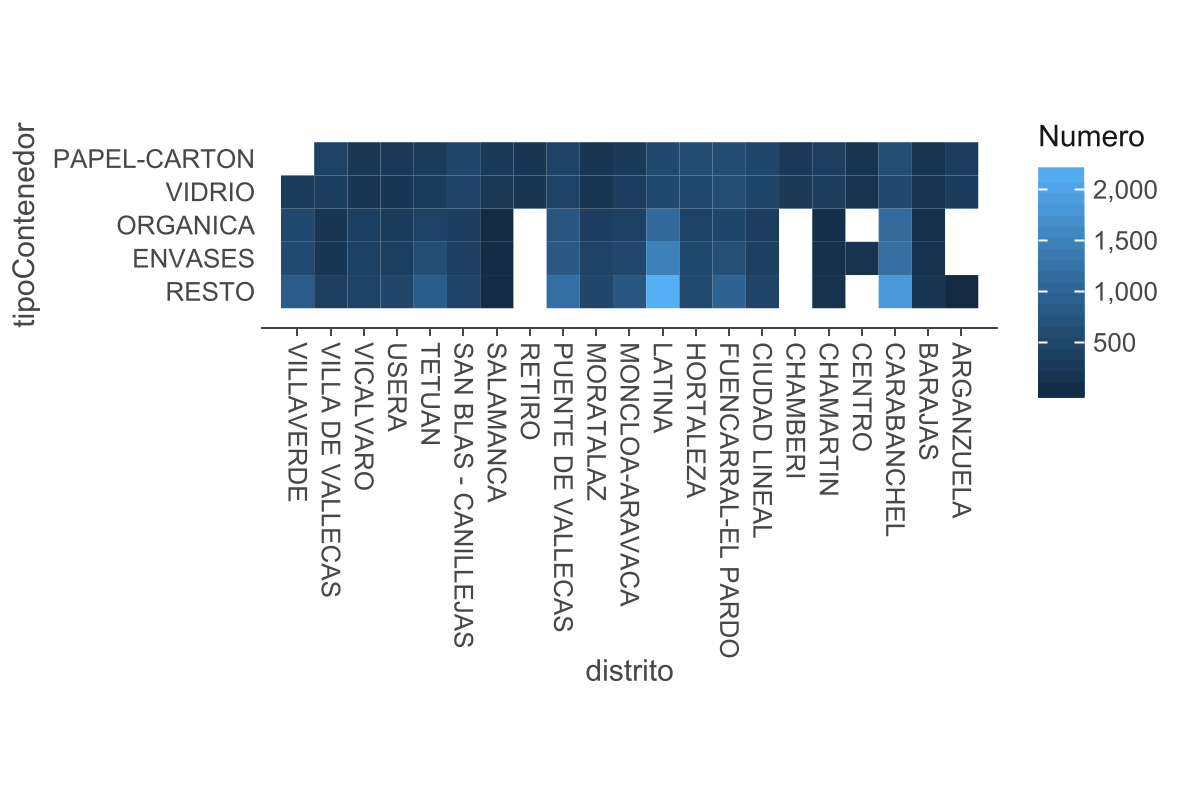
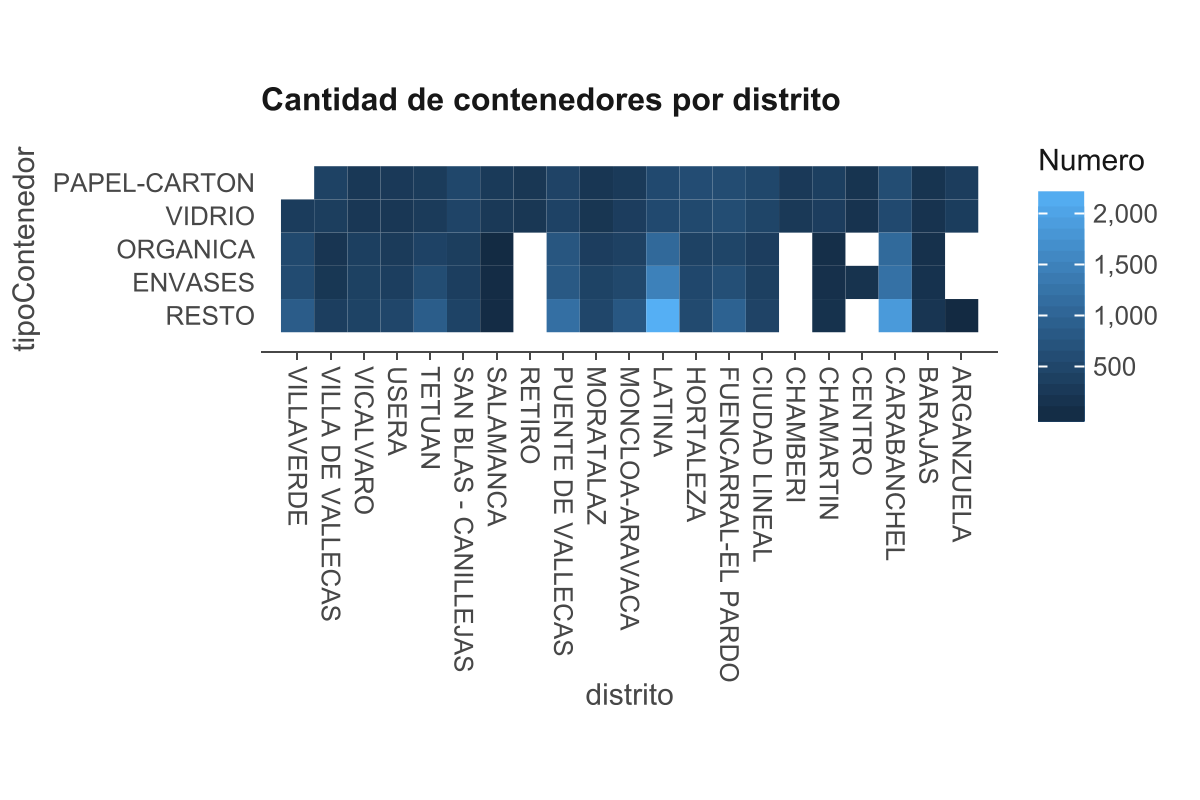
Commit_06_JR
Bitacora añadida

Changed region(s): [[0.0, 0.0938, 0.8325, 0.9062], [0.8633, 0.1562, 0.9867, 0.5312], [0.4008, 0.25, 0.4933, 0.3125]]

diff --git a/ProyectoAD-01-Residuos/src/main/resources/resumen.html b/ProyectoAD-01-Residuos/src/main/resources/resumen.html
@@ -12,7 +12,7 @@
              
              <h1 id ="titulo">Resumen de Recogidas y Reciclaje de contenendores en los distritos de Madrid</h1>
             
-             <h2 id="subtituloUno"> Generacion del html: 2022-10-11T23:18:14.265607700</h2>
+             <h2 id="subtituloUno"> Generacion del html: 2022-10-12T20:16:55.482346900</h2>
              <br>
              <h3 id="subtituloDos">Construido por: Daniel Carmona y Jeremy Ramos</h3>
              
@@ -177,7 +177,7 @@ table.dataframe tr:hover .formatted .structural, .null {
         </head>
         <body>
             
-<table class="dataframe" id="df_1207959552"></table>
+<table class="dataframe" id="df_838860800"></table>
 
 <p>... showing only top 20 of 94 rows</p><p>DataFrame [94 x 3]</p>
         </body>
@@ -460,10 +460,10 @@ table.dataframe tr:hover .formatted .structural, .null {
 call_DataFrame(function() { DataFrame.addTable({ cols: [{ name: "<span title=\"distrito: String\">distrito</span>", children: [], rightAlign: false, values: ["VILLAVERDE","VILLAVERDE","VILLAVERDE","VILLAVERDE","VILLA DE VALLECAS","VILLA DE VALLECAS","VILLA DE VALLECAS","VILLA DE VALLECAS","VILLA DE VALLECAS","VICALVARO","VICALVARO","VICALVARO","VICALVARO","VICALVARO","USERA","USERA","USERA","USERA","USERA","TETUAN"] }, 
 { name: "<span title=\"tipoContenedor: String\">tipoContenedor</span>", children: [], rightAlign: false, values: ["RESTO","ENVASES","ORGANICA","VIDRIO","RESTO","PAPEL-CARTON","ENVASES","VIDRIO","ORGANICA","ENVASES","ORGANICA","RESTO","PAPEL-CARTON","VIDRIO","PAPEL-CARTON","RESTO","ENVASES","VIDRIO","ORGANICA","VIDRIO"] }, 
 { name: "<span title=\"Numero: Int\">Numero</span>", children: [], rightAlign: true, values: ["<span class=\"formatted\" title=\"\"><span class=\"numbers\">867</span></span>","<span class=\"formatted\" title=\"\"><span class=\"numbers\">582</span></span>","<span class=\"formatted\" title=\"\"><span class=\"numbers\">545</span></span>","<span class=\"formatted\" title=\"\"><span class=\"numbers\">324</span></span>","<span class=\"formatted\" title=\"\"><span class=\"numbers\">356</span></span>","<span class=\"formatted\" title=\"\"><span class=\"numbers\">422</span></span>","<span class=\"formatted\" title=\"\"><span class=\"numbers\">221</span></span>","<span class=\"formatted\" title=\"\"><span class=\"numbers\">351</span></span>","<span class=\"formatted\" title=\"\"><span class=\"numbers\">200</span></span>","<span class=\"formatted\" title=\"\"><span class=\"numbers\">397</span></span>","<span class=\"formatted\" title=\"\"><span class=\"numbers\">368</span></span>","<span class=\"formatted\" title=\"\"><span class=\"numbers\">431</span></span>","<span class=\"formatted\" title=\"\"><span class=\"numbers\">243</span></span>","<span class=\"formatted\" title=\"\"><span class=\"numbers\">235</span></span>","<span class=\"formatted\" title=\"\"><span class=\"numbers\">270</span></span>","<span class=\"formatted\" title=\"\"><span class=\"numbers\">496</span></span>","<span class=\"formatted\" title=\"\"><span class=\"numbers\">352</span></span>","<span class=\"formatted\" title=\"\"><span class=\"numbers\">230</span></span>","<span class=\"formatted\" title=\"\"><span class=\"numbers\">299</span></span>","<span class=\"formatted\" title=\"\"><span class=\"numbers\">302</span></span>"] }, 
-], id: 1207959552, rootId: 1207959552, totalRows: 94 } ) });
+], id: 838860800, rootId: 838860800, totalRows: 94 } ) });
 /*-->*/
 
-call_DataFrame(function() { DataFrame.renderTable(1207959552) });
+call_DataFrame(function() { DataFrame.renderTable(838860800) });
 
 
         </script>
@@ -629,9 +629,9 @@ table.dataframe tr:hover .formatted .structural, .null {
         </head>
         <body>
             
-<table class="dataframe" id="df_1207959553"></table>
+<table class="dataframe" id="df_838860801"></table>
 
-<p>DataFrame [5 x 2]</p>
+<p>... showing only top 20 of 94 rows</p><p>DataFrame [94 x 3]</p>
         </body>
         <script>
             (function () {
@@ -909,12 +909,13 @@ table.dataframe tr:hover .formatted .structural, .null {
 })()
 
 /*<!--*/
-call_DataFrame(function() { DataFrame.addTable({ cols: [{ name: "<span title=\"tipoContenedor: String\">tipoContenedor</span>", children: [], rightAlign: false, values: ["RESTO","ENVASES","ORGANICA","VIDRIO","PAPEL-CARTON"] }, 
-{ name: "<span title=\"Media de Contenedores: Int\">Media de Contenedores</span>", children: [], rightAlign: true, values: ["<span class=\"formatted\" title=\"\"><span class=\"numbers\">683</span></span>","<span class=\"formatted\" title=\"\"><span class=\"numbers\">496</span></span>","<span class=\"formatted\" title=\"\"><span class=\"numbers\">431</span></span>","<span class=\"formatted\" title=\"\"><span class=\"numbers\">349</span></span>","<span class=\"formatted\" title=\"\"><span class=\"numbers\">367</span></span>"] }, 
-], id: 1207959553, rootId: 1207959553, totalRows: 5 } ) });
+call_DataFrame(function() { DataFrame.addTable({ cols: [{ name: "<span title=\"tipoContenedor: String\">tipoContenedor</span>", children: [], rightAlign: false, values: ["RESTO","ENVASES","ORGANICA","VIDRIO","RESTO","PAPEL-CARTON","ENVASES","VIDRIO","ORGANICA","ENVASES","ORGANICA","RESTO","PAPEL-CARTON","VIDRIO","PAPEL-CARTON","RESTO","ENVASES","VIDRIO","ORGANICA","VIDRIO"] }, 
+{ name: "<span title=\"distrito: String\">distrito</span>", children: [], rightAlign: false, values: ["VILLAVERDE","VILLAVERDE","VILLAVERDE","VILLAVERDE","VILLA DE VALLECAS","VILLA DE VALLECAS","VILLA DE VALLECAS","VILLA DE VALLECAS","VILLA DE VALLECAS","VICALVARO","VICALVARO","VICALVARO","VICALVARO","VICALVARO","USERA","USERA","USERA","USERA","USERA","TETUAN"] }, 
+{ name: "<span title=\"Media de Contenedores: Int\">Media de Contenedores</span>", children: [], rightAlign: true, values: ["<span class=\"formatted\" title=\"\"><span class=\"numbers\">867</span></span>","<span class=\"formatted\" title=\"\"><span class=\"numbers\">582</span></span>","<span class=\"formatted\" title=\"\"><span class=\"numbers\">545</span></span>","<span class=\"formatted\" title=\"\"><span class=\"numbers\">324</span></span>","<span class=\"formatted\" title=\"\"><span class=\"numbers\">356</span></span>","<span class=\"formatted\" title=\"\"><span class=\"numbers\">422</span></span>","<span class=\"formatted\" title=\"\"><span class=\"numbers\">221</span></span>","<span class=\"formatted\" title=\"\"><span class=\"numbers\">351</span></span>","<span class=\"formatted\" title=\"\"><span class=\"numbers\">200</span></span>","<span class=\"formatted\" title=\"\"><span class=\"numbers\">397</span></span>","<span class=\"formatted\" title=\"\"><span class=\"numbers\">368</span></span>","<span class=\"formatted\" title=\"\"><span class=\"numbers\">431</span></span>","<span class=\"formatted\" title=\"\"><span class=\"numbers\">243</span></span>","<span class=\"formatted\" title=\"\"><span class=\"numbers\">235</span></span>","<span class=\"formatted\" title=\"\"><span class=\"numbers\">270</span></span>","<span class=\"formatted\" title=\"\"><span class=\"numbers\">496</span></span>","<span class=\"formatted\" title=\"\"><span class=\"numbers\">352</span></span>","<span class=\"formatted\" title=\"\"><span class=\"numbers\">230</span></span>","<span class=\"formatted\" title=\"\"><span class=\"numbers\">299</span></span>","<span class=\"formatted\" title=\"\"><span class=\"numbers\">302</span></span>"] }, 
+], id: 838860801, rootId: 838860801, totalRows: 94 } ) });
 /*-->*/
 
-call_DataFrame(function() { DataFrame.renderTable(1207959553) });
+call_DataFrame(function() { DataFrame.renderTable(838860801) });
 
 
         </script>
@@ -1080,7 +1081,7 @@ table.dataframe tr:hover .formatted .structural, .null {
         </head>
         <body>
             
-<table class="dataframe" id="df_1207959554"></table>
+<table class="dataframe" id="df_838860802"></table>
 
 <p>... showing only top 20 of 186 rows</p><p>DataFrame [186 x 3]</p>
         </body>
@@ -1362,11 +1363,11 @@ table.dataframe tr:hover .formatted .structural, .null {
 /*<!--*/
 call_DataFrame(function() { DataFrame.addTable({ cols: [{ name: "<span title=\"tipoResiduo: String\">tipoResiduo</span>", children: [], rightAlign: false, values: ["RESTO","ENVASES","VIDRIO","ORGANICA","PAPEL-CARTON","CARTON COMERCIAL","RCD","PUNTOS LIMPIOS","RESTO","ENVASES","VIDRIO","ORGANICA","PAPEL-CARTON","RCD","PUNTOS LIMPIOS","CONTENEDORES DE ROPA","RESTO","ENVASES","VIDRIO","ORGANICA"] }, 
 { name: "<span title=\"distrito: String\">distrito</span>", children: [], rightAlign: false, values: ["Villaverde","Villaverde","Villaverde","Villaverde","Villaverde","Villaverde","Villaverde","Villaverde","Villa de Vallecas","Villa de Vallecas","Villa de Vallecas","Villa de Vallecas","Villa de Vallecas","Villa de Vallecas","Villa de Vallecas","Villa de Vallecas","Vic&#225;lvaro","Vic&#225;lvaro","Vic&#225;lvaro","Vic&#225;lvaro"] }, 
-{ name: "<span title=\"TONELADAS POR DIISTRITO: Int\">TONELADAS POR DIISTRITO</span>", children: [], rightAlign: true, values: ["<span class=\"formatted\" title=\"\"><span class=\"numbers\">2554</span></span>","<span class=\"formatted\" title=\"\"><span class=\"numbers\">480</span></span>","<span class=\"formatted\" title=\"\"><span class=\"numbers\">127</span></span>","<span class=\"formatted\" title=\"\"><span class=\"numbers\">686</span></span>","<span class=\"formatted\" title=\"\"><span class=\"numbers\">149</span></span>","<span class=\"formatted\" title=\"\"><span class=\"numbers\">10</span></span>","<span class=\"formatted\" title=\"\"><span class=\"numbers\">46</span></span>","<span class=\"formatted\" title=\"\"><span class=\"numbers\">44</span></span>","<span class=\"formatted\" title=\"\"><span class=\"numbers\">3335</span></span>","<span class=\"formatted\" title=\"\"><span class=\"numbers\">303</span></span>","<span class=\"formatted\" title=\"\"><span class=\"numbers\">94</span></span>","<span class=\"formatted\" title=\"\"><span class=\"numbers\">1230</span></span>","<span class=\"formatted\" title=\"\"><span class=\"numbers\">144</span></span>","<span class=\"formatted\" title=\"\"><span class=\"numbers\">116</span></span>","<span class=\"formatted\" title=\"\"><span class=\"numbers\">74</span></span>","<span class=\"formatted\" title=\"\"><span class=\"numbers\">0</span></span>","<span class=\"formatted\" title=\"\"><span class=\"numbers\">1840</span></span>","<span class=\"formatted\" title=\"\"><span class=\"numbers\">230</span></span>","<span class=\"formatted\" title=\"\"><span class=\"numbers\">157</span></span>","<span class=\"formatted\" title=\"\"><span class=\"numbers\">118</span></span>"] }, 
-], id: 1207959554, rootId: 1207959554, totalRows: 186 } ) });
+{ name: "<span title=\"TONELADAS POR DISTRITO: Int\">TONELADAS POR DISTRITO</span>", children: [], rightAlign: true, values: ["<span class=\"formatted\" title=\"\"><span class=\"numbers\">2554</span></span>","<span class=\"formatted\" title=\"\"><span class=\"numbers\">480</span></span>","<span class=\"formatted\" title=\"\"><span class=\"numbers\">127</span></span>","<span class=\"formatted\" title=\"\"><span class=\"numbers\">686</span></span>","<span class=\"formatted\" title=\"\"><span class=\"numbers\">149</span></span>","<span class=\"formatted\" title=\"\"><span class=\"numbers\">10</span></span>","<span class=\"formatted\" title=\"\"><span class=\"numbers\">46</span></span>","<span class=\"formatted\" title=\"\"><span class=\"numbers\">44</span></span>","<span class=\"formatted\" title=\"\"><span class=\"numbers\">3335</span></span>","<span class=\"formatted\" title=\"\"><span class=\"numbers\">303</span></span>","<span class=\"formatted\" title=\"\"><span class=\"numbers\">94</span></span>","<span class=\"formatted\" title=\"\"><span class=\"numbers\">1230</span></span>","<span class=\"formatted\" title=\"\"><span class=\"numbers\">144</span></span>","<span class=\"formatted\" title=\"\"><span class=\"numbers\">116</span></span>","<span class=\"formatted\" title=\"\"><span class=\"numbers\">74</span></span>","<span class=\"formatted\" title=\"\"><span class=\"numbers\">0</span></span>","<span class=\"formatted\" title=\"\"><span class=\"numbers\">1840</span></span>","<span class=\"formatted\" title=\"\"><span class=\"numbers\">230</span></span>","<span class=\"formatted\" title=\"\"><span class=\"numbers\">157</span></span>","<span class=\"formatted\" title=\"\"><span class=\"numbers\">118</span></span>"] }, 
+], id: 838860802, rootId: 838860802, totalRows: 186 } ) });
 /*-->*/
 
-call_DataFrame(function() { DataFrame.renderTable(1207959554) });
+call_DataFrame(function() { DataFrame.renderTable(838860802) });
 
 
         </script>
@@ -1532,7 +1533,7 @@ table.dataframe tr:hover .formatted .structural, .null {
         </head>
         <body>
             
-<table class="dataframe" id="df_1207959555"></table>
+<table class="dataframe" id="df_838860803"></table>
 
 <p>... showing only top 20 of 264 rows</p><p>DataFrame [264 x 3]</p>
         </body>
@@ -1815,10 +1816,10 @@ table.dataframe tr:hover .formatted .structural, .null {
 call_DataFrame(function() { DataFrame.addTable({ cols: [{ name: "<span title=\"distrito: String\">distrito</span>", children: [], rightAlign: false, values: ["Centro","Tetu&#225;n","Chamber&#237;","Fuencarral - El Pardo","Moncloa - Aravaca","Latina","Retiro","Salamanca","Chamart&#237;n","Moratalaz","Ciudad Lineal","Hortaleza","Vic&#225;lvaro","San Blas - Canillejas","Barajas","Arganzuela","Carabanchel","Usera","Puente de Vallecas","Villaverde"] }, 
 { name: "<span title=\"month: String\">month</span>", children: [], rightAlign: false, values: ["enero","enero","enero","enero","enero","enero","enero","enero","enero","enero","enero","enero","enero","enero","enero","enero","enero","enero","enero","enero"] }, 
 { name: "<span title=\"Toneladas por mes: Int\">Toneladas por mes</span>", children: [], rightAlign: true, values: ["<span class=\"formatted\" title=\"\"><span class=\"numbers\">576</span></span>","<span class=\"formatted\" title=\"\"><span class=\"numbers\">517</span></span>","<span class=\"formatted\" title=\"\"><span class=\"numbers\">533</span></span>","<span class=\"formatted\" title=\"\"><span class=\"numbers\">776</span></span>","<span class=\"formatted\" title=\"\"><span class=\"numbers\">480</span></span>","<span class=\"formatted\" title=\"\"><span class=\"numbers\">612</span></span>","<span class=\"formatted\" title=\"\"><span class=\"numbers\">361</span></span>","<span class=\"formatted\" title=\"\"><span class=\"numbers\">462</span></span>","<span class=\"formatted\" title=\"\"><span class=\"numbers\">493</span></span>","<span class=\"formatted\" title=\"\"><span class=\"numbers\">299</span></span>","<span class=\"formatted\" title=\"\"><span class=\"numbers\">608</span></span>","<span class=\"formatted\" title=\"\"><span class=\"numbers\">622</span></span>","<span class=\"formatted\" title=\"\"><span class=\"numbers\">263</span></span>","<span class=\"formatted\" title=\"\"><span class=\"numbers\">508</span></span>","<span class=\"formatted\" title=\"\"><span class=\"numbers\">208</span></span>","<span class=\"formatted\" title=\"\"><span class=\"numbers\">449</span></span>","<span class=\"formatted\" title=\"\"><span class=\"numbers\">877</span></span>","<span class=\"formatted\" title=\"\"><span class=\"numbers\">377</span></span>","<span class=\"formatted\" title=\"\"><span class=\"numbers\">627</span></span>","<span class=\"formatted\" title=\"\"><span class=\"numbers\">501</span></span>"] }, 
-], id: 1207959555, rootId: 1207959555, totalRows: 264 } ) });
+], id: 838860803, rootId: 838860803, totalRows: 264 } ) });
 /*-->*/
 
-call_DataFrame(function() { DataFrame.renderTable(1207959555) });
+call_DataFrame(function() { DataFrame.renderTable(838860803) });
 
 
         </script>
@@ -1984,9 +1985,9 @@ table.dataframe tr:hover .formatted .structural, .null {
         </head>
         <body>
             
-<table class="dataframe" id="df_1207959556"></table>
+<table class="dataframe" id="df_838860804"></table>
 
-<p>... showing only top 20 of 186 rows</p><p>DataFrame [186 x 5]</p>
+<p>... showing only top 20 of 186 rows</p><p>DataFrame [186 x 6]</p>
         </body>
         <script>
             (function () {
@@ -2269,10 +2270,11 @@ call_DataFrame(function() { DataFrame.addTable({ cols: [{ name: "<span title=\"t
 { name: "<span title=\"Maxima: Comparable\">Maxima</span>", children: [], rightAlign: false, values: ["<span class=\"formatted\" title=\"\"><span class=\"numbers\">2824,7</span></span>","<span class=\"formatted\" title=\"\"><span class=\"numbers\">543,5</span></span>","<span class=\"formatted\" title=\"\"><span class=\"numbers\">144,1</span></span>","<span class=\"formatted\" title=\"\"><span class=\"numbers\">755,6</span></span>","<span class=\"formatted\" title=\"\"><span class=\"numbers\">167,7</span></span>","<span class=\"formatted\" title=\"\"><span class=\"numbers\">13,6</span></span>","<span class=\"formatted\" title=\"\"><span class=\"numbers\">58,2</span></span>","<span class=\"formatted\" title=\"\"><span class=\"numbers\">58,8</span></span>","<span class=\"formatted\" title=\"\"><span class=\"numbers\">4646,0</span></span>","<span class=\"formatted\" title=\"\"><span class=\"numbers\">330,5</span></span>","<span class=\"formatted\" title=\"\"><span class=\"numbers\">119,5</span></span>","<span class=\"formatted\" title=\"\"><span class=\"numbers\">1596,2</span></span>","<span class=\"formatted\" title=\"\"><span class=\"numbers\">159,4</span></span>","<span class=\"formatted\" title=\"\"><span class=\"numbers\">365,2</span></span>","<span class=\"formatted\" title=\"\"><span class=\"numbers\">96,1</span></span>","<span class=\"formatted\" title=\"\"><span class=\"numbers\">0,2</span></span>","<span class=\"formatted\" title=\"\"><span class=\"numbers\">2103,0</span></span>","<span class=\"formatted\" title=\"\"><span class=\"numbers\">291,3</span></span>","<span class=\"formatted\" title=\"\"><span class=\"numbers\">184,9</span></span>","<span class=\"formatted\" title=\"\"><span class=\"numbers\">143,5</span></span>"] }, 
 { name: "<span title=\"Minima: Comparable\">Minima</span>", children: [], rightAlign: false, values: ["<span class=\"formatted\" title=\"\"><span class=\"numbers\">2099,4</span></span>","<span class=\"formatted\" title=\"\"><span class=\"numbers\">342,2</span></span>","<span class=\"formatted\" title=\"\"><span class=\"numbers\">109,9</span></span>","<span class=\"formatted\" title=\"\"><span class=\"numbers\">484,8</span></span>","<span class=\"formatted\" title=\"\"><span class=\"numbers\">113,4</span></span>","<span class=\"formatted\" title=\"\"><span class=\"numbers\">6,6</span></span>","<span class=\"formatted\" title=\"\"><span class=\"numbers\">35,9</span></span>","<span class=\"formatted\" title=\"\"><span class=\"numbers\">22,4</span></span>","<span class=\"formatted\" title=\"\"><span class=\"numbers\">2532,3</span></span>","<span class=\"formatted\" title=\"\"><span class=\"numbers\">206,5</span></span>","<span class=\"formatted\" title=\"\"><span class=\"numbers\">62,1</span></span>","<span class=\"formatted\" title=\"\"><span class=\"numbers\">813,3</span></span>","<span class=\"formatted\" title=\"\"><span class=\"numbers\">107,0</span></span>","<span class=\"formatted\" title=\"\"><span class=\"numbers\">33,0</span></span>","<span class=\"formatted\" title=\"\"><span class=\"numbers\">55,4</span></span>","<span class=\"formatted\" title=\"\"><span class=\"numbers\">0,2</span></span>","<span class=\"formatted\" title=\"\"><span class=\"numbers\">1297,5</span></span>","<span class=\"formatted\" title=\"\"><span class=\"numbers\">146,9</span></span>","<span class=\"formatted\" title=\"\"><span class=\"numbers\">93,3</span></span>","<span class=\"formatted\" title=\"\"><span class=\"numbers\">89,8</span></span>"] }, 
 { name: "<span title=\"Media: Int\">Media</span>", children: [], rightAlign: true, values: ["<span class=\"formatted\" title=\"\"><span class=\"numbers\">2554</span></span>","<span class=\"formatted\" title=\"\"><span class=\"numbers\">480</span></span>","<span class=\"formatted\" title=\"\"><span class=\"numbers\">127</span></span>","<span class=\"formatted\" title=\"\"><span class=\"numbers\">686</span></span>","<span class=\"formatted\" title=\"\"><span class=\"numbers\">149</span></span>","<span class=\"formatted\" title=\"\"><span class=\"numbers\">10</span></span>","<span class=\"formatted\" title=\"\"><span class=\"numbers\">46</span></span>","<span class=\"formatted\" title=\"\"><span class=\"numbers\">44</span></span>","<span class=\"formatted\" title=\"\"><span class=\"numbers\">3335</span></span>","<span class=\"formatted\" title=\"\"><span class=\"numbers\">303</span></span>","<span class=\"formatted\" title=\"\"><span class=\"numbers\">94</span></span>","<span class=\"formatted\" title=\"\"><span class=\"numbers\">1230</span></span>","<span class=\"formatted\" title=\"\"><span class=\"numbers\">144</span></span>","<span class=\"formatted\" title=\"\"><span class=\"numbers\">116</span></span>","<span class=\"formatted\" title=\"\"><span class=\"numbers\">74</span></span>","<span class=\"formatted\" title=\"\"><span class=\"numbers\">0</span></span>","<span class=\"formatted\" title=\"\"><span class=\"numbers\">1840</span></span>","<span class=\"formatted\" title=\"\"><span class=\"numbers\">230</span></span>","<span class=\"formatted\" title=\"\"><span class=\"numbers\">157</span></span>","<span class=\"formatted\" title=\"\"><span class=\"numbers\">118</span></span>"] }, 
-], id: 1207959556, rootId: 1207959556, totalRows: 186 } ) });
+{ name: "<span title=\"Desviación: Int\">Desviación</span>", children: [], rightAlign: true, values: ["<span class=\"formatted\" title=\"\"><span class=\"numbers\">176</span></span>","<span class=\"formatted\" title=\"\"><span class=\"numbers\">57</span></span>","<span class=\"formatted\" title=\"\"><span class=\"numbers\">12</span></span>","<span class=\"formatted\" title=\"\"><span class=\"numbers\">73</span></span>","<span class=\"formatted\" title=\"\"><span class=\"numbers\">14</span></span>","<span class=\"formatted\" title=\"\"><span class=\"numbers\">1</span></span>","<span class=\"formatted\" title=\"\"><span class=\"numbers\">7</span></span>","<span class=\"formatted\" title=\"\"><span class=\"numbers\">9</span></span>","<span class=\"formatted\" title=\"\"><span class=\"numbers\">584</span></span>","<span class=\"formatted\" title=\"\"><span class=\"numbers\">36</span></span>","<span class=\"formatted\" title=\"\"><span class=\"numbers\">18</span></span>","<span class=\"formatted\" title=\"\"><span class=\"numbers\">253</span></span>","<span class=\"formatted\" title=\"\"><span class=\"numbers\">14</span></span>","<span class=\"formatted\" title=\"\"><span class=\"numbers\">89</span></span>","<span class=\"formatted\" title=\"\"><span class=\"numbers\">12</span></span>","<span class=\"formatted\" title=\"\"><span class=\"numbers\">0</span></span>","<span class=\"formatted\" title=\"\"><span class=\"numbers\">222</span></span>","<span class=\"formatted\" title=\"\"><span class=\"numbers\">39</span></span>","<span class=\"formatted\" title=\"\"><span class=\"numbers\">27</span></span>","<span class=\"formatted\" title=\"\"><span class=\"numbers\">13</span></span>"] }, 
+], id: 838860804, rootId: 838860804, totalRows: 186 } ) });
 /*-->*/
 
-call_DataFrame(function() { DataFrame.renderTable(1207959556) });
+call_DataFrame(function() { DataFrame.renderTable(838860804) });
 
 
         </script>
@@ -2438,7 +2440,7 @@ table.dataframe tr:hover .formatted .structural, .null {
         </head>
         <body>
             
-<table class="dataframe" id="df_1207959557"></table>
+<table class="dataframe" id="df_838860805"></table>
 
 <p>... showing only top 20 of 22 rows</p><p>DataFrame [22 x 2]</p>
         </body>
@@ -2720,10 +2722,10 @@ table.dataframe tr:hover .formatted .structural, .null {
 /*<!--*/
 call_DataFrame(function() { DataFrame.addTable({ cols: [{ name: "<span title=\"distrito: String\">distrito</span>", children: [], rightAlign: false, values: ["Centro","Tetu&#225;n","Chamber&#237;","Fuencarral - El Pardo","Moncloa - Aravaca","Latina","Retiro","Salamanca","Chamart&#237;n","Moratalaz","Ciudad Lineal","Hortaleza","Vic&#225;lvaro","San Blas - Canillejas","Barajas","Arganzuela","Carabanchel","Usera","Puente de Vallecas","Villaverde"] }, 
 { name: "<span title=\"RECOGIDO EN UN AÑO: Int\">RECOGIDO EN UN AÑO</span>", children: [], rightAlign: true, values: ["<span class=\"formatted\" title=\"\"><span class=\"numbers\">74160</span></span>","<span class=\"formatted\" title=\"\"><span class=\"numbers\">53028</span></span>","<span class=\"formatted\" title=\"\"><span class=\"numbers\">47037</span></span>","<span class=\"formatted\" title=\"\"><span class=\"numbers\">86267</span></span>","<span class=\"formatted\" title=\"\"><span class=\"numbers\">59491</span></span>","<span class=\"formatted\" title=\"\"><span class=\"numbers\">72393</span></span>","<span class=\"formatted\" title=\"\"><span class=\"numbers\">40118</span></span>","<span class=\"formatted\" title=\"\"><span class=\"numbers\">53657</span></span>","<span class=\"formatted\" title=\"\"><span class=\"numbers\">50307</span></span>","<span class=\"formatted\" title=\"\"><span class=\"numbers\">28804</span></span>","<span class=\"formatted\" title=\"\"><span class=\"numbers\">68199</span></span>","<span class=\"formatted\" title=\"\"><span class=\"numbers\">60016</span></span>","<span class=\"formatted\" title=\"\"><span class=\"numbers\">29657</span></span>","<span class=\"formatted\" title=\"\"><span class=\"numbers\">51812</span></span>","<span class=\"formatted\" title=\"\"><span class=\"numbers\">18499</span></span>","<span class=\"formatted\" title=\"\"><span class=\"numbers\">43351</span></span>","<span class=\"formatted\" title=\"\"><span class=\"numbers\">83218</span></span>","<span class=\"formatted\" title=\"\"><span class=\"numbers\">42565</span></span>","<span class=\"formatted\" title=\"\"><span class=\"numbers\">76623</span></span>","<span class=\"formatted\" title=\"\"><span class=\"numbers\">49152</span></span>"] }, 
-], id: 1207959557, rootId: 1207959557, totalRows: 22 } ) });
+], id: 838860805, rootId: 838860805, totalRows: 22 } ) });
 /*-->*/
 
-call_DataFrame(function() { DataFrame.renderTable(1207959557) });
+call_DataFrame(function() { DataFrame.renderTable(838860805) });
 
 
         </script>

diff --git a/ProyectoAD-01-Residuos/src/main/kotlin/controller/Resumen.kt b/ProyectoAD-01-Residuos/src/main/kotlin/controller/Resumen.kt
@@ -13,7 +13,9 @@ import jetbrains.letsPlot.label.labs
 import jetbrains.letsPlot.scale.scaleFillGradient
 import mu.KotlinLogging
 import org.jetbrains.kotlinx.dataframe.api.*
+import org.jetbrains.kotlinx.dataframe.io.DisplayConfiguration
 import org.jetbrains.kotlinx.dataframe.io.html
+import org.jetbrains.kotlinx.dataframe.size
 import java.io.File
 import java.io.FileWriter
 import java.time.LocalDateTime
@@ -70,13 +72,12 @@ object Resumen {
             //Consultar Numero de Contenedores de cada tipo que hay en cada Distrito.
             val numeroContenedores = dataFrame.groupBy("distrito", "tipoContenedor")
                 .aggregate { count() into "Numero" }.sortByDesc("distrito").drop(1)
-
             println(" \n Consultar Numero de Contenedores de cada tipo que hay en cada Distrito.")
-            println(numeroContenedores)
+            numeroContenedores.print()
 
             //Consultar la Media de contenedores de cada tipo que hay en cada Distrito.
 
-            val mediaDeContenedoresPorDistrito = numeroContenedores.groupBy("tipoContenedor")
+            val mediaDeContenedoresPorDistrito = numeroContenedores.groupBy("tipoContenedor", "distrito")
                 .aggregate { mean("Numero").toInt() into "Media de Contenedores" }
             println(" \n Consultar Media de Contenedores de cada tipo que hay en cada Distrito.")
             println(mediaDeContenedoresPorDistrito)
@@ -85,9 +86,7 @@ object Resumen {
 
             var graficoContenedores = ggplot(numeroContenedores.toMap()) +
                     geomTile { x = "distrito"; y = "tipoContenedor"; fill = "Numero" } +
-                    theme(panelBackground = elementBlank(), panelGrid = elementBlank())
-            scaleFillGradient("#00BCD4", "#009688") +
-                    ggsize(900, 400) +
+                    theme(panelBackground = elementBlank(), panelGrid = elementBlank()) +
                     ggtitle("Cantidad de contenedores por distrito")
 
             ggsave(graficoContenedores, "grafico1.png", path = "$RESOURCES${File.separator}img")
@@ -95,7 +94,7 @@ object Resumen {
 
             //Media de toneladaas annuales de recogidas por cada tipo de basura agrupadas por distrito
             var mediaToneladasAnualesPorDistrito = dataFrame2.groupBy("tipoResiduo", "distrito")
-                .aggregate { mean("toneladas").toInt() into "TONELADAS POR DIISTRITO" }.sortByDesc("distrito")
+                .aggregate { mean("toneladas").toInt() into "TONELADAS POR DISTRITO" }.sortByDesc("distrito")
             println(" \n Media de toneladaas annuales de recogidas por cada tipo de basura agrupadas por distrito")
             println(mediaToneladasAnualesPorDistrito)
 
@@ -121,6 +120,7 @@ object Resumen {
                     max("toneladas") into "Maxima"
                     min("toneladas") into "Minima"
                     mean("toneladas").toInt() into "Media"
+                    std("toneladas").toInt() into "Desviación"
                 }.sortByDesc("distrito")
             println(" \n Máximo, mínimo, media y desviación de toneladas anuales de recogidas por cada tipo de basura agrupadas por distrito")
             println(estadisticasToneladasAnualesPorDistrito)
@@ -134,7 +134,7 @@ object Resumen {
 
             // Por cada distrito obtener para cada tipo de residuo la cantidad recogida.
             var porDistritoCantidadRecogida = dataFrame2.groupBy("tipoResiduo", "distrito")
-                .aggregate { sum("toneladas").toInt() into "RECOGIDO" }
+                .aggregate { sum("toneladas").toInt() into "RECOGIDO" }.sortByDesc("distrito")
             println(" \n Por cada distrito obtener para cada tipo de residuo la cantidad recogida")
             println(porDistritoCantidadRecogida)
 
@@ -246,6 +246,9 @@ object Resumen {
 
     fun resumenDistrito(distrito: String) {
         println(distrito)
+
+
+
     }
 
 

diff --git a/ProyectoAD-01-Residuos/src/main/kotlin/Bitacora.kt b/ProyectoAD-01-Residuos/src/main/kotlin/Bitacora.kt
@@ -1,0 +1,34 @@
+
+import kotlinx.serialization.Serializable
+import kotlinx.serialization.encodeToString
+import nl.adaptivity.xmlutil.serialization.XML
+import nl.adaptivity.xmlutil.serialization.XmlElement
+import java.io.File
+import java.time.LocalDateTime
+import java.util.UUID
+
+/**
+ * @params Elemenetos los cuales compondrán nuestra bitácota
+ */
+@Serializable
+class Bitacora(
+    @XmlElement(true)
+    val opcionRecibida: String,
+    @XmlElement(true)
+    val isSucces: Boolean,
+    @XmlElement(true)
+    val tiempoEjecución: Long,
+) {
+    @XmlElement(true)
+    val id: String = UUID.randomUUID().toString()
+    @XmlElement(true)
+    val instante: String = LocalDateTime.now().toString()
+
+    fun bitacoraXml(path:String){
+        val xml = XML { indentString = "  " }
+        val bitacora = File(path+ File.separator+"bitacoraCompleta.xml")
+        bitacora.writeText(xml.encodeToString(this))
+    }
+
+}
+

diff --git a/ProyectoAD-01-Residuos/src/main/kotlin/Main.kt b/ProyectoAD-01-Residuos/src/main/kotlin/Main.kt
@@ -21,6 +21,8 @@ fun main(args: Array<String>) {
  * @param args Argumentos necesarios que se reciben del main.
  */
 fun init(args: Array<String>) {
+     val RESOURCES = System.getProperty("user.dir")+"${File.separator}src${File.separator}" +
+            "main${File.separator}resources"
     if (args.isNotEmpty()) {
 
         if (args[0].equals("parser") && args.size >= 3) {
@@ -51,6 +53,13 @@ fun init(args: Array<String>) {
         println("Opción incorrecta.")
         exitProcess(0)
     }
+
+    //Creacion de la Bitacora
+
+    val bitacora = Bitacora(args[0],true,453452L)
+    bitacora.bitacoraXml(RESOURCES)
+
+
 }
 
 /**
